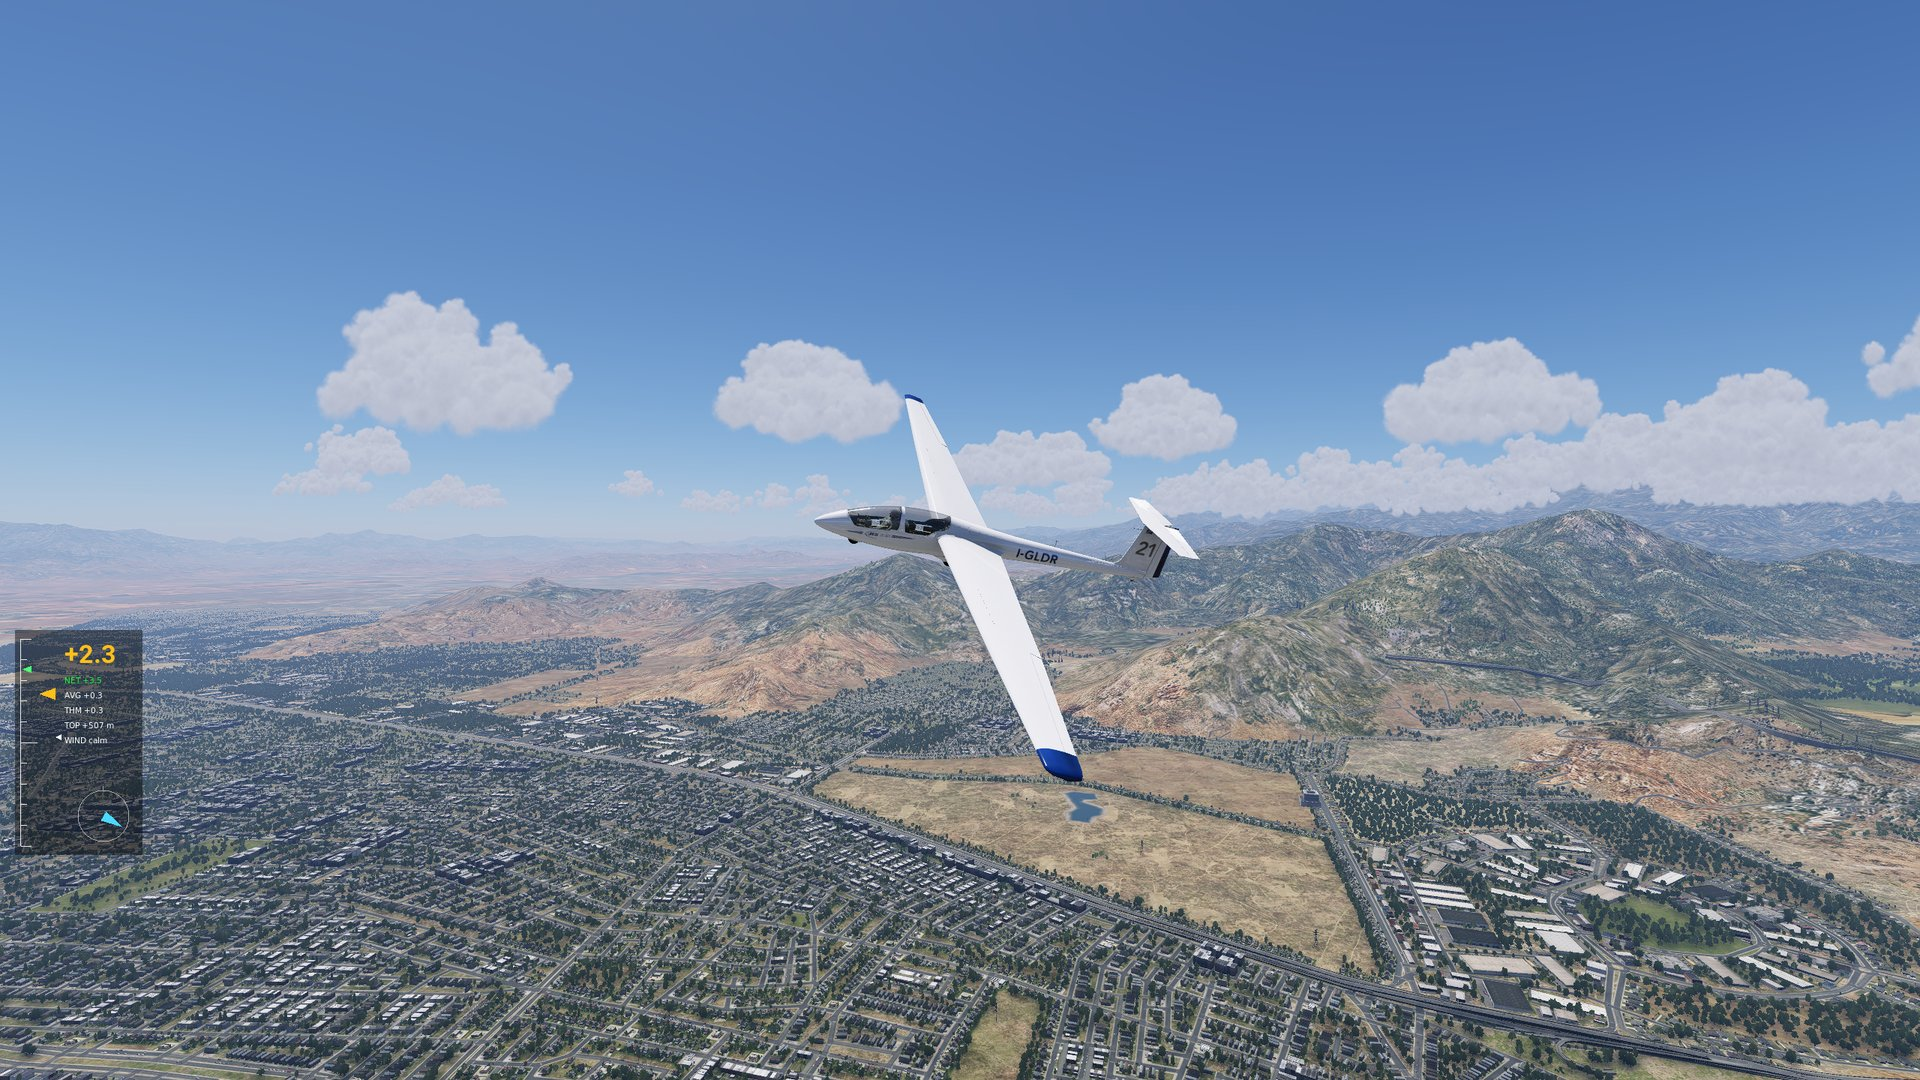
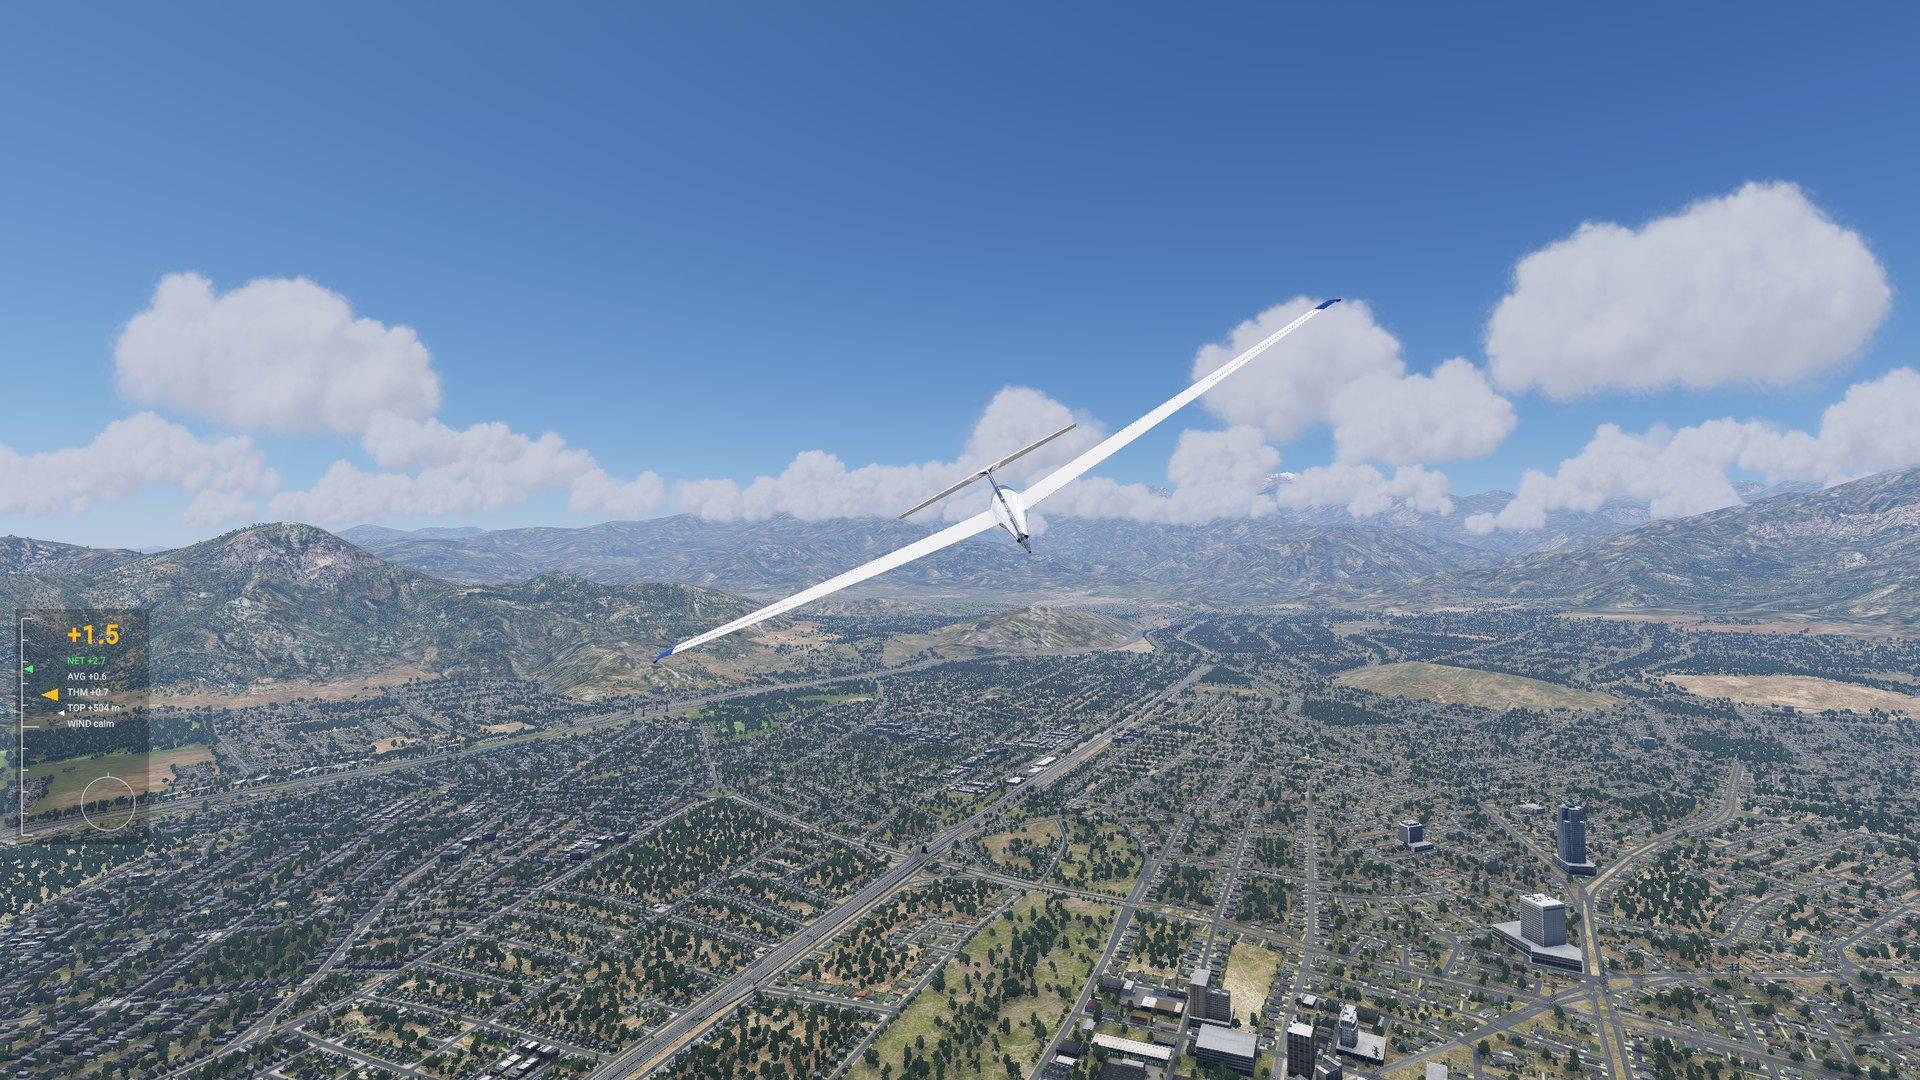
Documentation pictures for 2.0.1: Flight Computer, six cloud styles
The pictures were taken again in X-Plane 12.4.4 with 2.0.1 and default
settings, so the sky shows Billow light, the default style. New pictures
show the Flight Computer in X-Plane, its MAP, FLIGHT and TASK views, and
all six cloud styles side by side. The menu picture shows the Instrument
submenu. The zip's README.txt names the Flight Computer, cloud styles,
hotspot flights and X-Plane 12.4.4, and says Sharper thermal edges is off
by default.

diff --git a/docs/pilot-guide.md b/docs/pilot-guide.md
@@ -2,7 +2,7 @@
 
 How to install XP-Gliding, make a first flight and read its sky. This guide is for version 2.0.1. Its known limits are listed at the end.
 
-![A Laminar ASK 21 banked in a climbing turn over Santiago, Chile, with small cumulus around it and hills beyond. The HUD on the left reads +2.3 m/s](images/climbing-among-cumulus.jpg)
+![A Laminar ASK 21 banked in a climbing turn over Santiago, Chile, with cumulus over the foothills of the Andes beyond. The HUD on the left reads +1.5 m/s](images/climbing-among-cumulus.jpg)
 
 ## What you need
 
@@ -33,13 +33,13 @@ The plugin comes ready to fly: no file to edit, and nothing to set in X-Plane's 
 6. **Circle where the lift is.** When the vario goes up, turn. A bank of 28–35° at 90–95 km/h has worked in the ASK 21, flown by hand in X-Plane 12.4.3. Steeper turns cost a lot of climb in this glider.
 7. **Listen, if you like.** The AUDIO switch on the ASK 21's panel turns on X-Plane's own audio vario, which hears the plugin's thermals. In a glider with no such switch, choose *Plugins → XP-Gliding → X-Plane's audio vario*.
 
-![Training markers around an ASK 21: a red ring at the glider's height with its column rising to the cloud, for a thermal of 4 m/s or more at its core, and a pale column farther off for a weaker one](images/training-markers.jpg)
+![Training markers around an ASK 21 circling over Santiago, Chile: on the right a yellow column, for a thermal of 2 to 3 m/s at its core, with its ring at the glider's height seen edge on, and a red one behind it for 4 m/s or more; in the middle a thinner yellow one farther off](images/training-markers.jpg)
 
 In calm air the sky is the same every time for the same place, date, time and seed, so a good thermal can be found again. With wind the sky drifts from where it stood when the flight began, so the same thermal turns up over different ground.
 
 ## Reading the sky
 
-![The view ahead from a glider over the hills of Santiago, Chile: a few separate cumulus, each over a thermal, with blue sky between them and more cumulus in the distance](images/clouds-ahead.jpg)
+![The view ahead from a glider over Santiago, Chile: a few separate cumulus, each over a thermal, with blue sky between them and more cumulus in the distance. The HUD is on the left](images/clouds-ahead.jpg)
 
 - **A cloud means a thermal.** Each of the plugin's clouds sits over a thermal. A few thermals have no cloud, and they are weaker.
 - **Clouds are born with their thermal and outlive it.** A thermal lives between 5 and 30 minutes, growing and then fading, and never vanishes at once. A full cloud has a thermal at its best. A cloud that thins has a thermal that is weakening, and it stays a few minutes after its thermal has died, fading. A thin cloud may have nothing left under it.
@@ -57,7 +57,7 @@ In calm air the sky is the same every time for the same place, date, time and se
 
 A small panel on the left of the screen. The vario readings and the centring arrow use only what a real glider could sense, not the plugin's knowledge of where the thermals are.
 
-![The soaring HUD in a climb: +2.3 large in amber, NET +3.5 in green, AVG +0.3, THM +0.3, TOP +507 m, WIND calm, the tape on the left and the centring arrow at the bottom](images/hud.png)
+![The soaring HUD in a climb: +2.7 large in amber, NET +3.9 in green, AVG +0.6, THM +0.5, TOP +476 m, WIND calm, the tape on the left and the centring arrow at the bottom](images/hud.png)
 
 | Item | What it shows |
 | --- | --- |
@@ -73,11 +73,15 @@ A small panel on the left of the screen. The vario readings and the centring arr
 
 The other instrument, in place of the HUD: a window of its own that you can move and resize, with the same readings as the HUD, larger, and room for more to come. Choose it in *Plugins → XP-Gliding → Instrument*. It needs X-Plane 12.4.4 and XPPython3 4.8.0 or later, since its window is X-Plane's built-in browser; with anything earlier the menu greys it out and the HUD stays.
 
+![The Flight Computer in X-Plane: its window in the top left corner, the map showing the circle just flown, while the ASK 21 climbs at +1.4 m/s under a cumulus on the first leg of a task](images/flight-computer.jpg)
+
 A strip across the top always shows the total energy rate, with a bar whose half height is 5 m/s or 10 kt, the 30 s average and the altitude above sea level. With a task loaded, a row under it names the point you are flying to, with an arrow showing which way to turn to it, its bearing and its distance (see [TASK](#task)). Below, three tabs choose the view, MAP, FLIGHT or TASK; the one you leave it on is the one it opens with. Beside the tabs is the simulator's local time, which stands still while X-Plane is paused.
 
 ### MAP
 
 A topographic map, north up, with the glider on it, turned to its heading, and the track you have flown, coloured by height: blue at the lowest of the flight, red at the highest. The legend under the zoom buttons gives the two heights; it widens by itself in steps of 100 m (300 m at least) as the flight goes higher or lower, and then the whole line takes its new colours. The map follows the glider: it moves at most once a second, in a small step, rather than gliding along all the time, which would cost X-Plane frames. Drag the map and it stops following; the round button at the top right brings it back. Under it, an arrow shows where the wind at the glider is blowing to, with its speed in knots. The + and − buttons, or the mouse wheel, zoom; the zoom you leave is kept. The scale at the bottom left is in km, or in nautical miles with *Units* set to aviation (feet below one mile).
+
+![The MAP view after a climb: the track spirals up over a racecourse in Santiago, blue at 1200 m through green and yellow to red at 1600 m, the glider leaves the circle on a dashed yellow line towards the first turn point, Chicureo, 15.2 km away, and the wind button reads calm](images/flight-computer-map.png)
 
 The track keeps one point a second for the last six hours. It is recorded while the Flight Computer is the chosen instrument, whether its window is open or not, and starts again when the glider jumps: a new flight, a move on X-Plane's map, *Put me near a cloud*, a change of time.
 
@@ -100,6 +104,8 @@ The readings the strip does not show:
 | `TOP` | Height up to the nearest thermal's cloud, as on the HUD; `--` with *Thermals* off |
 | `WIND` | Where the wind comes from and its speed in knots, with an arrow pointing where it goes, relative to the nose |
 
+![The FLIGHT view in a climb: total energy +1.2 m/s, NETTO +2.7 in green, THM 0.0, AGL 777 m, IAS 94 km/h, GS 103 km/h, TOP +568 m and WIND calm](images/flight-computer-flight.png)
+
 The numbers grow and shrink with the window, so a small window in a corner still reads well.
 
 The readings are the HUD's own: the two instruments never disagree. Like the HUD, they use only what a glider could sense. *Units* in the menu sets both.
@@ -109,6 +115,8 @@ The readings are the HUD's own: the two instruments never disagree. Like the HUD
 A task from a SeeYou CUP file, to fly without leaving X-Plane. Put CUP files in `Output/xp-gliding/tasks/` in your X-Plane folder (the plugin makes the folder on its first start). Open the TASK tab: it lists each file and the tasks in it, with their length; press one to load it. ↻ reads the folder again, so a file you add while flying shows at once. The task you load is kept and loaded again at the next start, from its beginning. If you edit the file in the meantime, the same task is found wherever it now is in the file; if it was changed or removed, nothing is loaded and you choose again.
 
 A CUP file can hold waypoints only, with no task: turn point files for a site or a competition are often like that. Such a file is listed with "no tasks in this file". Make the task in SeeYou (or another program that writes CUP files with tasks) from those waypoints and save it, then put that file in the folder.
+
+![Left, the TASK tab with a task of 89.3 km around Santiago: the start at Tobalaba taken and dimmed, the first turn point, Chicureo, in yellow, 12 % done and 78.9 km left, the Prev, Next and Clear buttons, and the tasks folder with its one file. Right, the same task on the map: magenta legs, the start cylinder at Tobalaba, the zone of Chicureo drawn stronger, and a dashed yellow line from the glider to it](images/flight-computer-task.png)
 
 The TASK tab shows the task's points, each with the length of the leg to it; the point you are flying to is in yellow and those behind you are dimmed, and once started, the distance left and the share done. Each point is taken by itself as you fly:
 
@@ -127,7 +135,7 @@ Where you leave the window, and its size, are kept for the next session. Its clo
 
 Everything is in *Plugins → XP-Gliding*. What you choose is saved for the next session, and each switch is also a command you can bind to a key or a joystick button in X-Plane's keyboard or joystick settings.
 
-![The XP-Gliding menu with its default settings: the switches with a dot where they are on, then the submenus from Day to Hotspot flight, and the status line at the bottom](images/menu.png)
+![The XP-Gliding menu with its default settings: the switches with a dot where they are on, then the submenus from Instrument to Hotspot flight, with Instrument open and Soaring HUD ticked, and the status line at the bottom](images/menu.png)
 
 | Item | What it does | Command |
 | --- | --- | --- |

diff --git a/README.md b/README.md
@@ -4,7 +4,7 @@ A thermal soaring plugin for X-Plane 12: thermals you can find by reading the cl
 
 It is an independent take on thermals, offered as another option for soaring in X-Plane 12. The weather, the wind, the ridge lift and the flight model stay X-Plane's, and the plugin brings thermals tied to clouds of their own.
 
-![A Laminar ASK 21 seen from below, circling under the cumulus that marks its thermal, with more cumulus over the hills of Santiago, Chile. The soaring HUD is on the left](docs/images/circling-under-its-cloud.jpg)
+![A Laminar ASK 21 seen from below, circling under the cumulus that marks its thermal, with more cumulus over the hills of Santiago, Chile. The soaring HUD on the left reads +1.4 m/s](docs/images/circling-under-its-cloud.jpg)
 
 > **Version 2.0.1.** Its limits are stated in the guide. Download it from the [releases page](https://github.com/jlgabriel/xp-gliding/releases) and follow the [pilot guide](docs/pilot-guide.md) to install it: it needs only X-Plane 12 and [XPPython3](https://xppython3.readthedocs.io/).
 
@@ -24,6 +24,8 @@ It is an independent take on thermals, offered as another option for soaring in 
 - **A hotspot flight:** a file of hotspots from [thermal.kk7.ch](https://thermal.kk7.ch/) in place of the plugin's own sky, so the thermals are where pilots find them at that site, and nowhere else.
 - **Put me near a cloud:** from the menu, the glider starts flying towards a cloud, with no tow.
 - **Optional training markers** showing where the thermals are.
+
+![The Flight Computer's window in the top left corner of X-Plane, its map showing the circle just flown, while the ASK 21 climbs at +1.4 m/s under a cumulus over Santiago, Chile, on the first leg of a task](docs/images/flight-computer.jpg)
 
 ## Where it is going
 

diff --git a/docs/cloud-styles.md b/docs/cloud-styles.md
@@ -19,9 +19,9 @@ The plugin comes with six styles, in `xp_gliding/assets/clouds/`:
 - *Billow (rendered heaps)*: another way of drawing a cloud. Each particle is a whole heap of cumulus, rendered in Blender as a lit volume, with sunlit bulges, grey creases, a shaded underside and soft edges that fray into loose tufts, so a cloud is 34 large particles instead of many small puffs. Made by `tools/cloud_render/`.
 - *Billow light (lighter, softer edges)*, the default since 1.1.1: *Billow* with lighter shade and a wider fringe.
 
-![The same stretch of sky over Santiago, Chile, drawn in each of the first four styles: Standard, Cotton, Cauliflower and Popcorn](images/cloud-styles.jpg)
+![The same stretch of sky over Santiago, Chile, drawn in each of the six styles: Billow light and Billow, then Standard and Cotton, then Cauliflower and Popcorn](images/cloud-styles.jpg)
 
-The four views, from before the two *Billow* styles, were taken a minute apart from a glider circling in one thermal, in X-Plane 12.4.3, so the clouds themselves moved on a little between them.
+The six views were taken in X-Plane 12.4.4 from six identical flights, one per style: the same air start over Tobalaba at 14:00 on 2 November, flying north-west, each view 70 s after the start. The same seed, date, place and time give the same thermals, so the clouds stand in the same places in every view and only the style changes. The particles are scattered afresh each time, so the details of each cloud differ a little.
 
 All six are drawn at about the same size over the same thermals. A style of your own with the same folder name as one of the plugin's is left out.
 

diff --git a/docs/README.md b/docs/README.md
@@ -4,7 +4,7 @@ XP-Gliding's current version is 2.0.1. This documentation is growing with it, an
 
 ## Flying it
 
-- [Pilot guide](pilot-guide.md): installing the plugin, a first flight, reading the sky, the HUD, the menu and the known limits.
+- [Pilot guide](pilot-guide.md): installing the plugin, a first flight, reading the sky, the HUD, the Flight Computer and its tasks, the menu, the hotspot flight and the known limits.
 - [Cloud styles](cloud-styles.md): choosing how the clouds look, installing a style, and making your own.
 
 ## How it works
